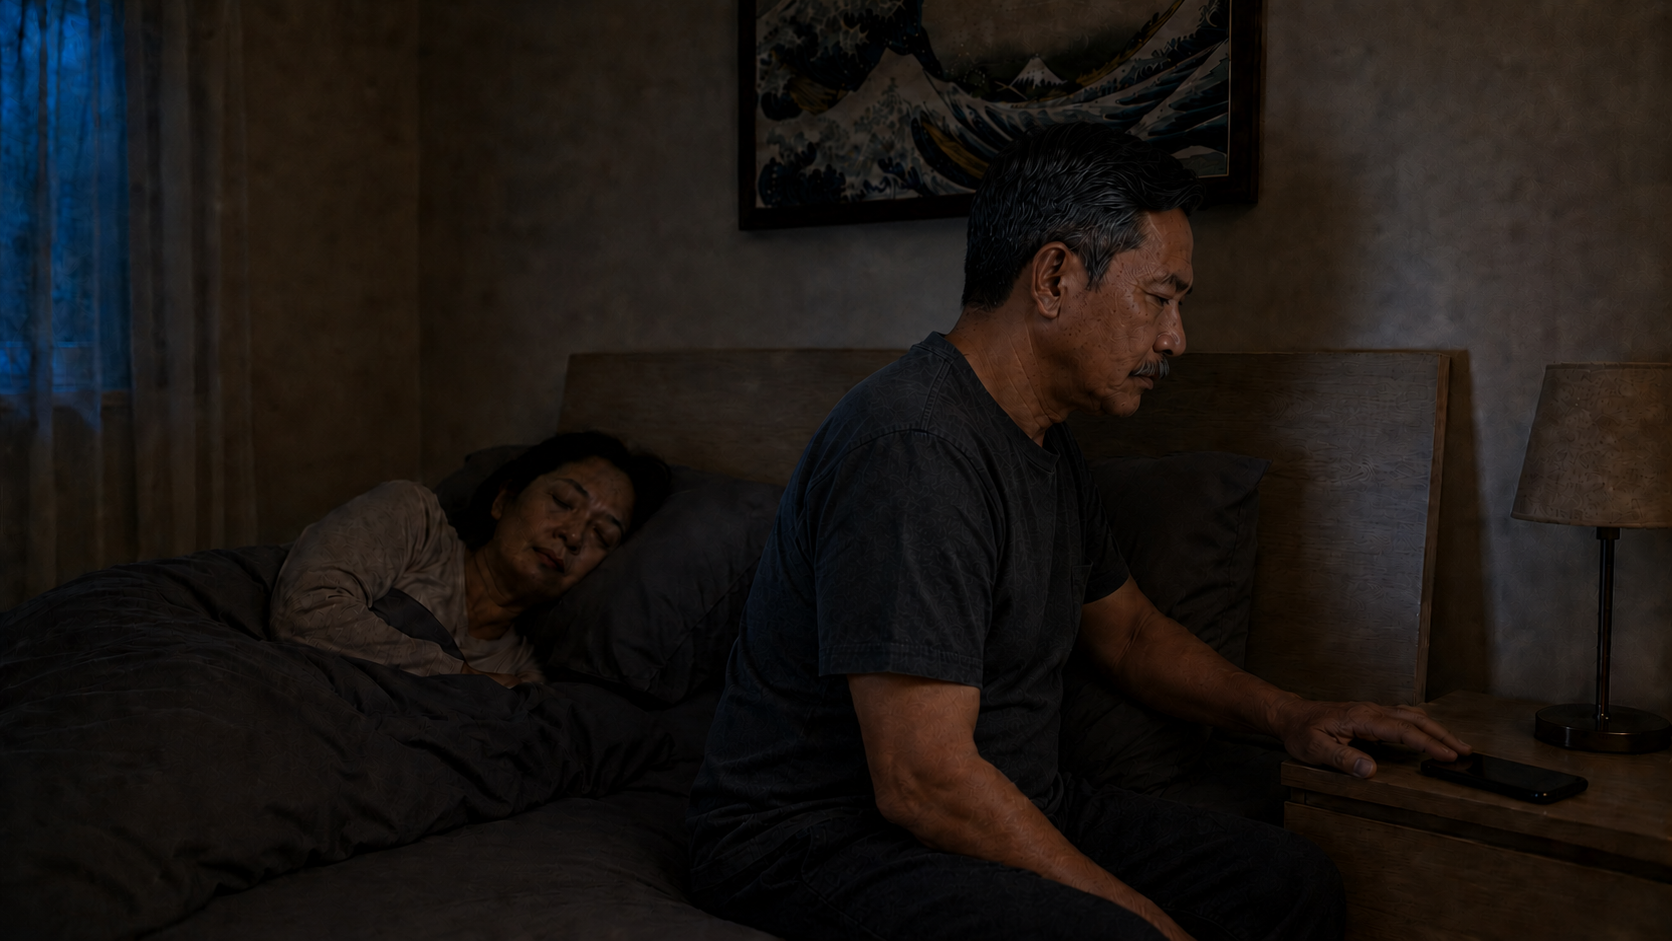
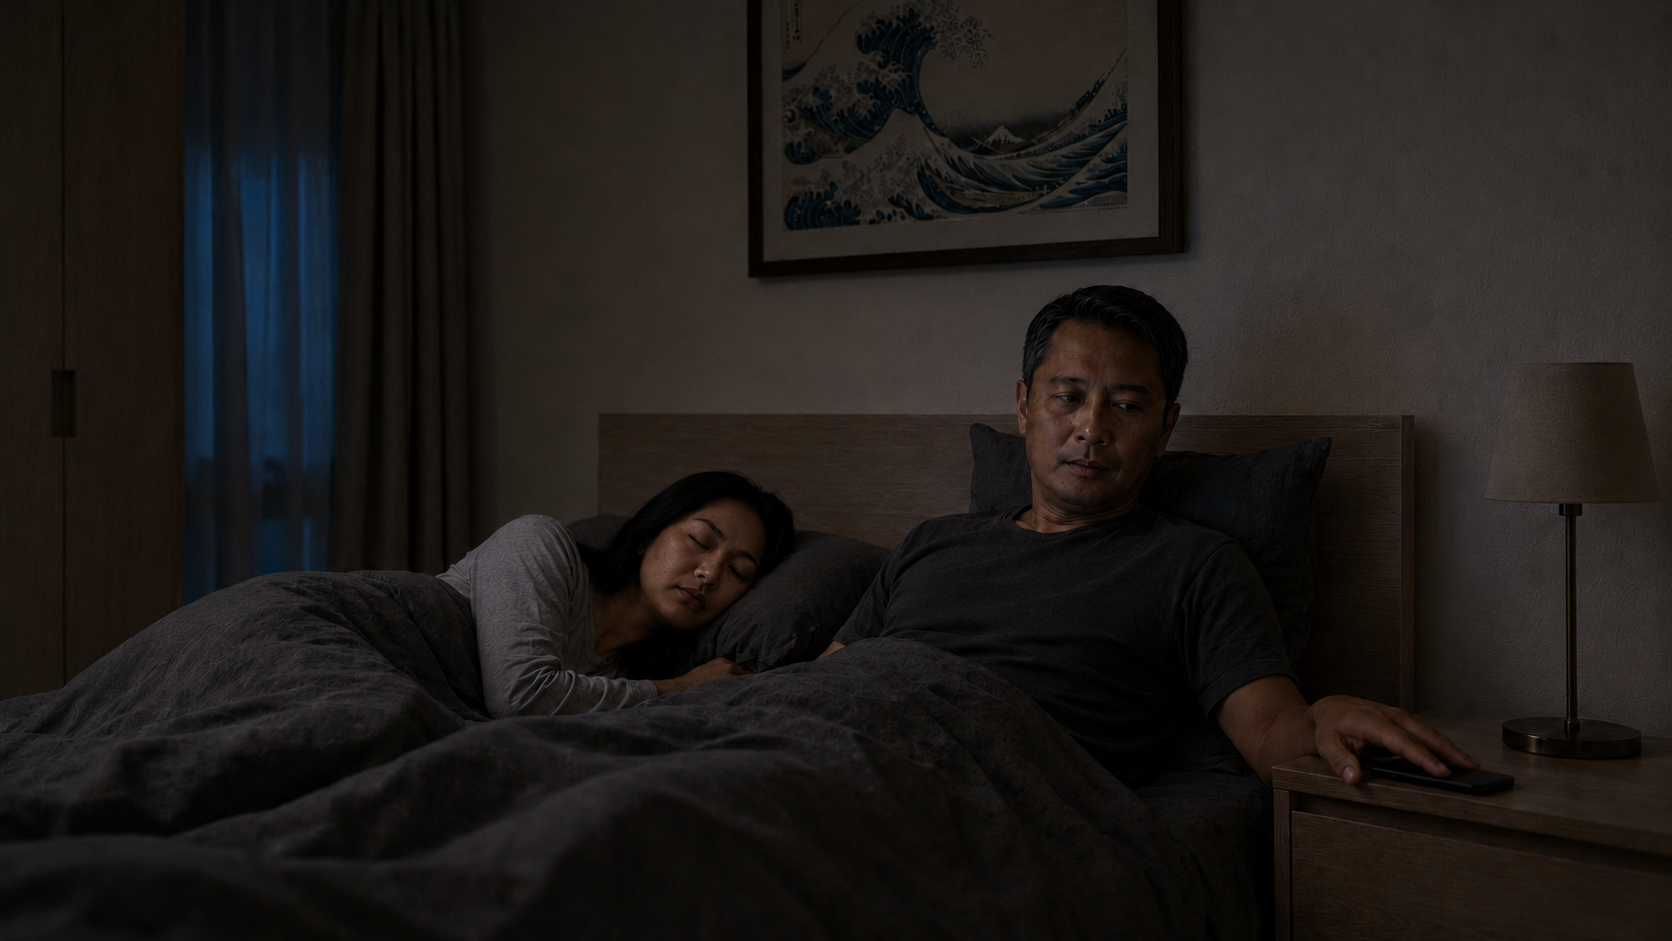
EV2 SC01 SH03 pair DONE (right-diag bed3q medium, 2-subject)
- SH03 START full-master (Mode B, 2-subject): phone portrait fix + phone-as-sole-cool-blue-key (face under-lit), grade Deakins-lock, clean-shaven, no negation
- SH03 END single-pass edit-in-place: place phone face-down + relight + lock BOTH faces via + plates (text 'unchanged' too weak under relight)
- Validated rules (lessons/SEQ1-SC01/context/scope/memory): START is always a full-prompt master (never a patched render); portrait phone facing subject hides screen-glow from camera -> force phone as key in lighting; relight destroys a secondary face in shadow -> lock each face with its plate, single-pass beats place-then-repair
- SC01 now SH01-SH03 complete; SEQ1-SC02.md deletion left unstaged

diff --git a/explainer-video-2/10-gateB-keyframes/SEQ1-SC01.md b/explainer-video-2/10-gateB-keyframes/SEQ1-SC01.md
@@ -135,58 +135,64 @@ Edit: the phone is now grasped by a hand and turned landscape.
 - **Intent (03, restructured 2026-06-26 — 7-shot · lihat [[SEQ1-SC01-RESTRUCTURE-2026-06-26]]):** start = Herman **rebah** nyandar bantal lihat layar (grafik saham; UI di After Effects, layar = slab **cool blue-white** Rule 21). end = Herman **TETAP rebah, menurunkan/menaruh HP face-down ke nakas di sisi kanannya** (delta-KECIL, reach-and-place). Beat **bangkit-duduk DIELIPSIS di cut SH03→SH04** (SH04 menangkapnya sudah duduk, tampak belakang).
 - **SHOT-CONCEPT (FIX — Rule 22 + metode multi-angle CUT):** framing **MEDIUM** (diketatkan dari medium-wide lama; sit-up tak lagi perlu ditampung, hanya reach-and-place). Angle = **kanan-diagonal `bed3q`**. Satu frame DIAM menampung rebah-lihat-HP (START) DAN rebah-taruh-HP-ke-nakas (END) — nakas WAJIB in-frame camera-right. Pasangan di ranjang (Rule 18): Herman camera-right, Ratna camera-left uncovered (R-ratna §0). Layout (Rule 19): jendela camera-left redup biru-pekat (Rule 10), nakas+lampu-OFF camera-right, Great Wave tengah. Herman bangun-tidur (Rule 20).
 - **START attachments (5):** `E01_kamar_master.png` (layout) + `E01_kamar_bed3q.png` (angle) + `H_herman_front_medium.png` + `R_ratna_front_medium.png` + `sc01_sh02_end.png` (grade). Plat **medium** (Rule 23: plat lebih lebar → frame lebih jauh).
-- **START** — mode: **B (one-shot)** · STATUS: ✅ **ACCEPTED (regen) 2026-06-26** → `scene-images/sc01/sc01_sh03_start.png` (supersedes prior `2a91a36c`). Review: framing MEDIUM mendarat (pasangan rebah dominan, lebih ketat dari long lama); **nakas+lampu in-frame camera-right** (syarat END reach-and-place ✓); angle `bed3q` ✓; Rule 21 layar slab biru-dingin under-light wajah, nol UI ✓; identitas Herman+Ratna cocok plat ✓; grade hangat+cool-screen konsisten SH02-END ✓; nol halusinasi. Watch utk END: permukaan nakas di tepi-kanan → taruh-HP harus mendarat di permukaan terlihat, tangan tak keluar frame. Proven prompt:
+- **START** — mode: **B (FULL MASTER, one-shot — START selalu full prompt, bukan edit; konsistensi doc, Erik 2026-06-29b)** · STATUS: ✅ **ACCEPTED 2026-06-29b (re-roll #3, glow-fix)** → `scene-images/sc01/sc01_sh03_start.png`. Review adversarial: wajah under-light cool-blue dari HP ✓, HP portrait ✓, blocking H-right/R-left ✓, Great Wave + nakas in-frame ✓, clean-shaven ✓, nol halusinasi. Jalan re-roll: `50c9e403`(HP-landscape)✗ → `24f3e4aa`(glow-hilang)✗ → `287017d4` ACCEPTED. Perbaikan dari render `50c9e403` (DITOLAK: HP landscape): **HP portrait-explicit** (4 field) + **grade Deakins-lock** (verbatim SH01/SH02) + **clean-shaven** (Herman regen, buang `grey moustache` stale) + **negasi dibuang** (reference_binding/scene/lighting) + **Kodak 2383** + `time_of_day: night`. Master prompt:
 ```json
 {
   "attachment_manifest": {
-    "environment_layout_reference": "E01_kamar_master.png — big-picture room layout, the curtained window and wardrobe on the camera-left, the nightstand and table lamp on the camera-right, the framed Great Wave print above the headboard, identical materials, identical layout",
-    "environment_angle_reference": "E01_kamar_bed3q.png — the camera angle and bed framing for this shot, three-quarter view of the bed, match this vantage",
+    "environment_layout_reference": "E01_kamar_master.png — big-picture room layout, curtained window and wardrobe camera-left, nightstand and table lamp camera-right, framed Great Wave print above headboard, identical materials, identical layout",
+    "environment_angle_reference": "E01_kamar_bed3q.png — camera angle and bed framing for this shot, three-quarter view of the bed, match this vantage",
     "identity_reference": [
-      "H_herman_front_medium.png — Herman, same man, match face shape, grey moustache, salt-and-pepper hair, mature skin, match proportions",
-      "R_ratna_front_medium.png — Ratna, same woman, match face shape, dark hair, soft full brows, match proportions"
+      "H_herman_front_medium.png — Herman, same man, match face, salt-and-pepper hair, clean-shaven, match proportions",
+      "R_ratna_front_medium.png — Ratna, same woman, match face, dark hair, soft full brows, match proportions"
     ],
-    "mood_color_lighting_reference": "sc01_sh02_end.png — previous shot of this scene, warm room grade and tonality reference only"
+    "grade_reference": "sc01_sh02_end.png — colour grade and tonality reference only, warm room grade"
   },
-  "reference_binding": "E01_kamar_master.png sets the big-picture room layout ONLY, the curtained window at camera-left, the nightstand and lamp at camera-right; E01_kamar_bed3q.png sets the camera angle ONLY; sc01_sh02_end.png sets the warm room colour grade and tonality ONLY, do not reproduce its composition, do not reproduce its top-down angle, do not reproduce its objects",
-  "mood": "intimate pre-dawn stillness, the first breath after waking, hushed sacred quiet",
-  "color_grade": "warm Deakins-style grade on the room, midtones slightly warm, gentle filmic contrast, one warm temperature, matched to the attached mood_color_lighting_reference sc01_sh02_end.png",
-  "style": "photorealistic cinematic still, ARRI Alexa Mini LF, 50mm prime spherical lens, Kodak Portra rendering, fine film grain",
-  "scene": "private bedroom in pre-dawn dark, a married couple in their shared bed, a mature man on the right side of the bed propped against a matte slate-grey cotton pillow holding a smartphone aloft at his chest, the smartphone screen a cool blue-white luminous slab with no legible interface, his wife asleep on the left side beside him hair uncovered and loose, a curtained window on the wife's side at camera-left dim and deep pre-dawn blue near-dark, a nightstand with a switched-off unlit table lamp on the man's side at camera-right, the framed Great Wave print centred on the wall above the headboard",
+  "reference_binding": "E01_kamar_master.png = room layout only, window camera-left, nightstand and lamp camera-right; E01_kamar_bed3q.png = camera angle only; sc01_sh02_end.png = warm room colour grade and tonality only",
+  "mood": "tender intimate pre-dawn stillness, hushed private waking, quiet domestic register",
+  "color_grade": "Roger Deakins palette, lifted blacks medium gray, neutral shadows, clean whites, Kodak 2383 emulation, slightly warmer midtones",
+  "style": "photorealistic cinematic frame, ARRI Alexa Mini LF, 50mm prime spherical lens, Kodak 2383 film emulation, naturalistic skin rendering",
+  "scene": "private bedroom pre-dawn dark, married couple in shared bed, mature man on the camera-right side propped against a slate-grey pillow holding a smartphone aloft at his chest, smartphone held upright in portrait orientation, long axis vertical, screen facing the man, screen a bright uniform cool blue-white luminous slab casting cool blue-white light up onto his face, wife asleep on the camera-left side, hair uncovered loose across the pillow, curtained window on the wife's side camera-left dim deep pre-dawn blue, nightstand with table lamp off on the man's side camera-right, framed Great Wave print centred above the headboard",
   "location": "indoor",
-  "time_of_day": "pre-dawn",
-  "atmosphere": "dark hushed pre-dawn dimness, barely-there ambient",
+  "time_of_day": "night",
+  "atmosphere": "hushed pre-dawn near-darkness, perfectly still",
   "scene_depth": {
-    "foreground": "the smartphone aloft at the man's chest, a cool blue-white luminous slab, the man's right hand wrapped around its lower edge",
-    "midground": "the man's face and upper chest, the focal centre, lit cool blue-white from the phone below",
-    "background": "the wife asleep on the pillow at camera-left, dark hair loose uncovered, face relaxed; the dim deep pre-dawn blue curtained window near-dark further to camera-left; the framed Great Wave print centred above the headboard; the switched-off lamp and nightstand at camera-right"
+    "foreground": "smartphone held upright portrait at the man's chest, long axis vertical, cool blue-white luminous slab, his hand around its lower edge",
+    "midground": "the man's face and upper chest, focal centre, lit cool blue-white from the phone below",
+    "background": "the wife asleep on the pillow camera-left, dark hair loose, face relaxed, dim deep pre-dawn blue curtained window further camera-left, framed Great Wave print above the headboard, lamp off and nightstand camera-right"
   },
   "subjects": [
-    { "who": "Herman", "identity_reference": "H_herman_front_medium.png", "wardrobe": "plain dark muted crew-neck cotton sleep t-shirt, plain dark muted pyjama trousers", "grooming": "hair tousled and messy from sleep, dishevelled" },
-    { "who": "Ratna", "identity_reference": "R_ratna_front_medium.png", "wardrobe": "light muted sleep clothing, dark hair uncovered, worn loose and down across the pillow", "state": "asleep, eyes closed, lying turned slightly toward him, not the focus" }
+    { "who": "Herman", "identity_reference": "H_herman_front_medium.png", "wardrobe": "plain dark muted crew-neck cotton sleep t-shirt, plain dark muted pyjama trousers", "grooming": "hair tousled sleep-messy, just-woke" },
+    { "who": "Ratna", "identity_reference": "R_ratna_front_medium.png", "wardrobe": "light muted sleep clothing, dark hair uncovered loose across the pillow", "state": "asleep, eyes closed, turned slightly toward him, not the focus" }
   ],
   "subject_state": "static",
-  "action": "the man watching the phone screen aloft at his chest, his wife lying still asleep beside him",
-  "pose": "the man propped against the pillow, head and shoulders raised, leaning back, right arm raised holding the phone at his chest, the wife supine beside him turned slightly toward him head on the pillow",
-  "gesture": "the man's right hand wrapped around the lower edge of the phone, fingers along the right long side, thumb along the left long side, the screen face angled up toward his face",
-  "expression": "the man just woken, eyes open but heavy and tired, lower lids slightly puffy, gaze down on the screen, face creased and sleep-rumpled, brows relaxed, mouth slightly slack, sleep-worn; the wife's eyes closed, features soft at rest",
-  "framing": "medium two-shot measured on a 1920 by 1080 canvas, fixed camera, the reclining man's head centred around x 1150 with his head-top near y 250 and his torso filling down toward the lower frame, the phone he holds aloft at his chest around x 980 to 1140 and y 430 to 590, the nightstand at camera-right spanning about x 1500 to 1840 with its surface near y 640 to 840 fully in frame within his reach so he can lower the phone onto it without the camera moving, the sleeping wife's head at camera-left around x 320 to 560 and y 360 to 540, framing tight on the reclining couple, no sit-up to contain since the man stays reclining and only lowers the phone",
-  "angle": "three-quarter vantage from the man's camera-right side of the bed matching the camera angle of the attached environment_angle_reference E01_kamar_bed3q.png, camera slightly above eye level, both heads on the pillows held in frame",
-  "camera": "50mm prime spherical, shallow focus on the man's face, the wife softer in the same plane",
-  "lighting": "very-low-key pre-dawn darkness, the only key light a cool blue-white glow rising from the smartphone screen below the man's face, cool blue-white under-light grazing his chin, lower cheeks, nose-tip, brow, and his hands, a dim deep pre-dawn blue light barely passing through the curtained window at camera-left, near-dark window, the table lamp switched off and unlit, no warm sun risen yet, the rest of the room in dim soft warm-neutral ambient, strong warm-cool contrast, shadows soft not crushed",
+  "action": "the man watching the upright phone held portrait at his chest, his wife still asleep beside him",
+  "pose": "man propped against the pillow, head and shoulders raised, leaning back, arm raised holding the phone upright at his chest, wife supine beside him turned slightly toward him, head on the pillow",
+  "gesture": "the man's hand gripping the lower portion of the upright portrait phone, fingers along its vertical right side, thumb along its vertical left side, screen facing his face",
+  "expression": "man just-woke, eyes open heavy tired, lower lids slightly puffy, gaze down on the screen, face creased sleep-rumpled, brows relaxed, mouth slightly slack; wife eyes closed, features soft at rest",
+  "framing": "medium two-shot on a 1920x1080 canvas, fixed camera, reclining man's head centred near x1150 head-top near y250 torso toward lower frame, upright portrait phone held near x1010-1110 y400-620 taller than wide, nightstand camera-right spanning x1500-1840 surface near y640-840 fully in frame within his reach, sleeping wife's head camera-left near x320-560 y360-540, tight on the reclining couple",
+  "angle": "three-quarter vantage from the man's camera-right side of the bed, matching environment_angle_reference E01_kamar_bed3q.png, camera slightly above eye level, both heads on the pillows in frame",
+  "camera": "50mm prime spherical, shallow focus on the man's face, wife softer in the same plane",
+  "lighting": "very low-key pre-dawn near-darkness, the man's face lit ONLY by a strong cool blue-white glow from the upright phone screen held below his face, his chin lower cheeks nose-tip and brow clearly under-lit cool blue, cool-blue catchlights in his eyes, the sleeping wife and the rest of the room falling to deep dim warm-neutral shadow, dim deep pre-dawn blue at the curtained window camera-left, table lamp off dark base, strong warm-cool contrast, shadows deep soft",
   "aspect_ratio": "16:9",
-  "director": "Alfonso Cuarón", "directing_style": "intimate naturalist realism",
+  "director": "Alfonso Cuarón", "directing_style": "intimate naturalistic domestic observation, patient stillness",
   "lighting_director": "Emmanuel Lubezki", "lighting_style": "naturalistic available-light, soft directional",
-  "production_designer": "Eugenio Caballero", "production_design_style": "Roma-style middle-class domestic realism",
+  "production_designer": "Eugenio Caballero", "production_design_style": "lived-in middle-class Jakarta domestic authenticity",
   "interior_designer": "Ilse Crawford", "interior_design_style": "warm human-centred tactile lived-in",
-  "costume_designer": "Deborah Hopper", "costume_style": "character-authentic casual wear",
-  "makeup_artist": "Eryn Krueger Mekash", "makeup_style": "naturalistic lived-in skin, real-person feel"
+  "costume_designer": "Deborah Hopper", "costume_style": "character-authentic casual sleepwear",
+  "makeup_artist": "Eryn Krueger Mekash", "makeup_style": "naturalistic matte lived-in skin, real-person feel"
 }
 ```
 > **Catatan grade (validated):** cool-screen + dim-blue-window + warm-room dari grade-ref `sc01_sh02_end.png` + token Rule 21/10. (Look ini di-reverse-engineer jadi prompt one-shot — Rule 25.) Framing kini **MEDIUM** (tighter) karena END tak lagi memuat sit-up.
-- **END** — method: **EDIT-IN-PLACE delta-KECIL** pada render `sc01_sh03_start.png` (reach-and-place HP ke nakas, Herman **tetap rebah**) · STATUS: 🟨 **PROMPT READY — awaiting generate**. Prior sit-up END (`1e9f76d3`) di-retire — beat bangkit-duduk pindah ke cut SH04 (tampak belakang). Lihat [[SEQ1-SC01-RESTRUCTURE-2026-06-26]].
-  - **Attachment:** TANPA lampiran baru — edit dilakukan di atas render `sc01_sh03_start.png` yang dimuat di edit-view (nakas sudah ada in-frame pada sudut benar; melampirkan plat top-down `E01_kamar_nightstand.png` justru memicu konflik-sudut, jadi tidak dipakai). Set input-fidelity **High**. Edit-instruction (token-per-token, nol pronoun redundan, lock-list penuh — Rules 11/12/13/14):
+- **END** — method: **EDIT-IN-PLACE single-pass** pada `sc01_sh03_start.png` (place-phone + relight + lock 2 wajah via `+`) · STATUS: ✅ **ACCEPTED 2026-06-29b** → `scene-images/sc01/sc01_sh03_end.png`. Delta: Herman taruh HP face-down ke nakas camera-right (tetap rebah), glow biru padam → wajah ke ambient dim. Review adversarial: **kedua wajah UTUH** ✓, framing identik START ✓, HP di nakas ✓, nol halusinasi. Jalan: `8f307f68`(Ratna-rusak relight)✗ → `781ae3f3`(repair two-pass)✓ → `63c79ab9`(single-pass, kedua wajah lock-plat) ACCEPTED.
+  - **Attachments (2 via `+`):** `H_herman_front_medium.png` + `R_ratna_front_medium.png` (face locks). Canvas = `sc01_sh03_start.png`. Fidelity High. NOL preamble.
+  - **⭐ PELAJARAN (validated 2026-06-29b):** relight di edit-in-place **MERUSAK wajah-sekunder di shadow** → lock TIAP wajah dgn **plat via `+`** (token `the sleeping wife unchanged` GAGAL; identity-anchor plat berhasil). END big-relight = jalankan instruksi asli di START bersih + attach SEMUA wajah hadir → **single-pass > place-then-repair**. Edit-instruction final:
 ```
-the smartphone now resting face-down flat on the visible nightstand surface at camera-right near the lamp base, dark screen, screen off, no screen glow, the man's right arm extended toward the nightstand, the man's right hand resting flat beside the face-down phone, the cool blue-white glow gone from the face and chest, the man still reclining propped against the pillow, the man's head turned down toward the nightstand, the face now lit only by dim cool deep pre-dawn ambient, the sleeping wife unchanged, the headboard unchanged, the curtained window unchanged, the table lamp unchanged, the nightstand unchanged, the framed Great Wave artwork unchanged, the bed unchanged, framing unchanged, crop unchanged, camera unchanged, colour grade unchanged, composition unchanged
+Edit: the man has set the phone down on the nightstand, screen now dark, he stays reclining.
+- phone: the same phone, now lying flat face-down on the nightstand surface at camera-right, screen off dark
+- man: his right arm extended to the nightstand at camera-right having set the phone down, hand resting beside it, still reclining back against the pillow, head on the pillow, his face matching attached plate H_herman_front_medium, clear features, clean-shaven
+- woman: the sleeping wife at camera-left, eyes closed asleep, calm relaxed, her face matching attached plate R_ratna_front_medium, clear natural features, dark hair loose across the pillow
+- lighting: the cool blue-white phone glow extinguished, his face and chest now in dim ambient pre-dawn shadow, soft warm-neutral low ambient, room deep dim
+- unchanged: framing unchanged, crop unchanged, camera angle unchanged, Great Wave print unchanged, nightstand and table lamp unchanged camera-right, curtained window unchanged camera-left, color grade unchanged
 ```
 
 ## SEQ1-SC01-SH04 — MS samping ranjang · 35mm

diff --git a/explainer-video-2/03-scene-detail.md b/explainer-video-2/03-scene-detail.md
@@ -39,11 +39,11 @@ Override cool deck-standard `prompt-rules` b.208. String `color_grade` standar v
 **VO (laki-laki, tenang):** *"Satu hari dimulai. Hari yang sama — untuk semua orang."*
 
 **Shot list** *(within-shot: angle+framing LOCKED, hanya subjek berubah START→END; between-shot: CUT shot-reverse-shot di poros ranjang, right-diag `bed3q` ↔ left-diag `bed4q`; lampu ON mulai SH04-END → SH05–SH07 lebih hangat)*
-> **STATUS PRODUKSI (per 2026-06-29 · update penanda ini tiap shot selesai):** SH01 ✅ DONE (start+end). SH02 ✅ DONE (start+end). SH03–SH07 ⬜ BELUM. Penanda lama "(DONE — accepted)" = sisa sesi 2026-06-26 yang file-nya tak ada di disk → dikoreksi & diregenerasi ulang.
+> **STATUS PRODUKSI (per 2026-06-29 · update penanda ini tiap shot selesai):** SH01 ✅ DONE (start+end). SH02 ✅ DONE (start+end). SH03 ✅ DONE (start+end). SH04–SH07 ⬜ BELUM. Penanda lama "(DONE — accepted)" = sisa sesi 2026-06-26 yang file-nya tak ada di disk → dikoreksi & diregenerasi ulang.
 
 - **SEQ1-SC01-SH01** — *overhead · ECU/CU mata · 85mm.* start: mata terpejam di keremangan. end: mata terbuka, fokus ke langit-langit. *(✅ DONE — start+end accepted 2026-06-29 · `sc01_sh01_{start,end}.png` · master-parent + edit-in-place)*
 - **SEQ1-SC01-SH02** — *top-down · CU macro ponsel di nakas.* start: layar menyala, `Waktu Subuh 04.42` + kartu iklan sarung di bawahnya (layar OFF di render, UI di AE — A1). end: tangan meraih & menggenggam HP (pre-lift, bridge ke SH03). *(✅ DONE — start+end accepted 2026-06-29 · `sc01_sh02_{start,end}.png`)*
-- **SEQ1-SC01-SH03** — *right-diag `bed3q` · medium.* start: Herman berbaring memegang ponsel. end: ia meletakkan ponsel kembali di nakas — **tetap berbaring** (bangkit-duduk di-elide di cut). *(⬜ BELUM · grade ← SH02-END)*
+- **SEQ1-SC01-SH03** — *right-diag `bed3q` · medium.* start: Herman berbaring memegang ponsel. end: ia meletakkan ponsel kembali di nakas — **tetap berbaring** (bangkit-duduk di-elide di cut). *(✅ DONE — start+end accepted 2026-06-29b · `sc01_sh03_{start,end}.png`)*
 - **SEQ1-SC01-SH04** — *left-diag `bed4q` · long · H+R REAR-VIEW fullbody.* start: pasangan di ranjang dilihat dari belakang, kamar masih gelap; tangan Herman menjangkau saklar lampu nakas. end: lampu nakas **menyala**, cahaya hangat mengisi kamar. *(⬜ BELUM · grade ← SH03-END · butuh `E01_kamar_bed4q.png`)*
 - **SEQ1-SC01-SH05** — *left-diag `bed4q` · long · H+R rear-view fullbody.* start: Ratna masih berbaring, Herman duduk membelakangi. end: Ratna bangun, **duduk**, menoleh ke Herman. *(⬜ BELUM · grade ← SH04-END)*
 - **SEQ1-SC01-SH06** — *right-diag `bed3q` · long · wajah H+R terlihat.* start: Herman duduk di tepi ranjang, Ratna duduk di belakang. end: Herman **berdiri**, menengok kembali ke Ratna. *(⬜ BELUM · grade ← SH05-END · angle berubah → fresh master, bukan edit-in-place)*

diff --git a/context.md b/context.md
@@ -20,7 +20,8 @@ updated: 2026-06-10
 **Git anomaly:** `SEQ1-SC02.md` + `sc01_sh03_{start,end}.png` ter-`D` (hilang dari disk, masih tracked) — BUKAN dihapus sesi ini; commit di-stage selektif (deletions dibiarkan unstaged, repo tetap simpan). Perlu Erik putuskan restore.
 **SH02-END FINAL (accepted 2026-06-29, overwrite versi from-bottom yg salah):** tangan masuk dari **camera-left** (Herman tidur di kiri) → HP **terputar portrait→landscape** tergenggam; framing IDENTIK START (edit-in-place tahan **delta besar**). 4 re-roll (jempol→genggam-bawah→dari-kiri+landscape). **⭐ Pelajaran kunci (Erik "menulis tanpa berpikir"):** MODEL ADEGAN FISIK dulu — arah-masuk anggota tubuh ikut posisi karakter (Rule 24) + objek-digenggam ubah orientasi + spec utuh-koheren bukan token-swap parsial; edit-in-place tahan framing utk delta-besar (REVISI hipotesis "big-delta→resample"). Disebar ke `prompt-rules-text-image-to-image` (EDIT-IN-PLACE §Status + changelog) + lessons + SEQ1-SC01 + memory.
 **Git anomaly (BELUM diputus):** `SEQ1-SC02.md` + `sc01_sh03_{start,end}.png` ter-`D` (hilang dari disk, masih tracked) — BUKAN dihapus sesi ini; deletions dibiarkan unstaged, repo tetap simpan. SH03 di `SEQ1-SC01.md` masih mark accepted padahal file `D`. Perlu Erik putuskan restore SEQ1-SC02.md.
-**NEXT:** SH03 (right-diag `bed3q` medium, Herman rebah pegang HP → taruh di nakas tetap rebah) — perlu plat env bed3q + master + H/R medium. Commit governance + SH02-final atas perintah Erik; penghapusan SC02/SH03 TIDAK di-commit.
+**SH03 PAIR SELESAI + accepted 2026-06-29b** → `sc01_sh03_{start,end}.png`. START = full-master Mode B 2-subjek (re-roll #3 glow-fix: HP portrait + HP=satu-satunya key cool-blue ke wajah). END = single-pass edit-in-place (place-phone + relight + lock 2 wajah via `+`). **Pelajaran:** START selalu full-master (bukan edit); HP portrait-menghadap-subjek sembunyikan glow → paksa HP=key di `lighting`; relight rusak wajah-sekunder → lock TIAP wajah dgn plat (single-pass > place-then-repair). Disebar ke SEQ1-SC01 + lessons.
+**NEXT:** SH04 (left-diag `bed4q` long, H+R REAR-VIEW fullbody, tangan Herman ke saklar lampu nakas → END lampu NYALA). Dependensi: `E01_kamar_bed4q.png` (ada) + rear plates H/R. Commit SH03 + governance atas perintah Erik; penghapusan SC02/SH03-lama TIDAK di-commit.
 
 ## State AKHIR Sesi (2026-06-26b · SEQ1-SC01 SH03 PAIR SELESAI + Rules 26–27)
 **Fokus:** produksi SH03 (rebah→duduk-samping taruh HP) end-to-end + pengerasan metode keyframe-pair.

diff --git a/lessons.md b/lessons.md
@@ -45,6 +45,9 @@ updated: 2026-06-18
 - **A/B negasi di edit-model ChatGPT baru (N=1, 2026-06-29, SH02-END):** Versi B `negative_spatial_instructions` ("do not mirror / do not add second hand / do not lift the phone") **TIDAK backfire** — render tetap single-hand, layar OFF, nol mirror, framing utuh. Ini menantang asumsi no-negation-backfire (yang tervalidasi di **GPT-Image-2 LAMA**, autoregresif) — model **edit-in-place baru** tampak menangani negasi spasial tanpa menanam konsep. TAPI: (a) N=1, (b) Versi A affirmative-lock dipilih (komposisi lebih cocok START, BUKAN karena B gagal), (c) affirmative tetap **default** (lebih ringkas + tervalidasi panjang). Jangan over-claim "negasi sekarang aman"; re-test di kasus layout-kritis (bed4q mirror) sebelum mengubah aturan. Metode A/B-satu-variabel = cara bersih validasi (lessons:333).
 - **Plat OWN-character via `+` utk tambah anggota-tubuh ber-identitas (validated 2026-06-29, SH02-END):** edit-in-place yang MENAMBAH tangan/anggota tubuh ber-identitas → attach plat-netral karakter sendiri (`H_herman_front_full`) via `+` sbg "skin and hand reference only", ganti token-warna ambigu (`warm brown Southeast-Asian`). Pilih plat NETRAL full-body (wajah kecil) bukan face-CU render (dominasi-wajah → face-bleed). Skin tone cocok, framing tahan (Rule 27 "+" attach tak rusak framing).
 - **⭐ MODEL ADEGAN FISIK, JANGAN TOKEN-SWAP PARSIAL (validated keras 2026-06-29, SH02-END 4 re-roll, koreksi tajam Erik "menulis tanpa berpikir"):** sebelum menulis edit yang menambah/menggeser anggota tubuh atau objek, **modelkan adegan 3D dulu** — bukan menukar satu kata. (a) **Arah-masuk anggota tubuh ikut posisi karakter di frame** (Herman tidur camera-left → lengan masuk dari KIRI, bukan "from bottom" sembarang; Rule 24). (b) **Objek yang digenggam berubah orientasi** mengikuti aksi (HP portrait→landscape saat diraih dari samping) — sebut eksplisit, jangan biarkan spec kontradiktif ("lengan horizontal vs HP vertikal"). (c) Tiap elemen (lengan+grip+orientasi-objek+lock) WAJIB saling koheren, JANGAN parsial (ganti arah tapi grip lama dibiarkan = inkoheren). (d) **edit-in-place MENAHAN framing bahkan utk DELTA BESAR** (putar-orientasi + tambah-lengan) → REVISI hipotesis lama "big-delta hand → resample framing": akar kegagalan lama = spec INKOHEREN/parsial, BUKAN ukuran delta. Kanonik `prompt-rules-text-image-to-image.md` EDIT-IN-PLACE §Status + changelog 2026-06-29. Pola perilaku: jangan emit token sebelum adegan termodelkan; koreksi spasial user = sinyal model-3D-ku absen.
+- **START SELALU full-prompt MASTER, jangan perbaiki START via edit-in-place (Erik 2026-06-29b, koreksi rekomendasi saya):** ketika render START cacat satu hal (mis. orientasi HP), JANGAN tawarkan edit-in-place pada render itu — START = master, WAJIB diregenerasi dari **full prompt** supaya dokumen tetap jadi sumber yang mereproduksi START (konsistensi doc). Edit-in-place HANYA untuk END (delta dalam-shot) atau angle-child (master-parent law). Perbaiki akar di prompt (eksplisitkan orientasi/spec yang luput) + overwrite master di doc, lalu regen. (Saya sempat merekomendasikan edit-in-place rotate HP demi "preserve blocking" — ditolak: itu mengorbankan invariant START=full-prompt.)
+- **Screen-glow sbg KEY light: HP portrait menghadap subjek menyembunyikan glow dari KAMERA (validated 2026-06-29b, SH03 START re-roll #2→#3).** Saat HP portrait + `screen facing the man`, bidang layar membelakangi kamera → model render punggung-HP gelap + isi wajah dgn key hangat tak-termotivasi (motif Rule 21 hilang). Fix tervalidasi: `lighting` WAJIB menamai layar HP sbg **satu-satunya/dominant key eksplisit** (`face lit ONLY by strong cool blue-white glow from the phone screen below his face, chin/lower-cheeks/nose-tip/brow under-lit cool blue, cool-blue catchlights in eyes, rest of room falling to deep shadow`) + `scene` sebut layar `casting cool blue-white light up onto his face`. Bukti: `24f3e4aa` (layar gelap, wajah key-hangat) → `287017d4` (glow biru pulih). Under-light wajah = **bake di render** (susah/jangan dipalsukan di AE; AE hanya UI konten). Selaras Rule 21 (kanonik `prompt-rules-image-generation`).
+- **Relight di edit-in-place MERUSAK wajah-sekunder di shadow → lock TIAP wajah dgn PLAT via `+`, bukan token (validated 2026-06-29b, SH03 END).** Saat edit me-relight gelap region berisi wajah co-present (Ratna asleep), fiturnya hancur walau ada lock-token `the sleeping wife unchanged` (token TERLALU lemah saat region di-resample oleh relight). Fix tervalidasi: attach plat wajah TIAP figur yang terdampak via `+` + identity-anchor eksplisit (`her face matching attached plate R_ratna_front_medium, clear features`). **Pola END big-relight:** jangan place-then-repair (2-pass); jalankan instruksi END asli di **START bersih** + attach SEMUA wajah hadir sekaligus → **single-pass** menjaga semua identitas by-construction (bukti: `8f307f68` Ratna-rusak → `63c79ab9` single-pass kedua-wajah-utuh). Generalisasi: lock-token cukup utk objek mati; **wajah/identitas butuh plat saat region-nya di-relight/di-resample**.
 - **ADDENDUM A1 refined (2026-06-26):** layar device OFF di render AI; AE menghidupkan layar + kartu iklan = motion-graphic terbang (bukan tekstur layar) → tangan/objek boleh menutupi layar; jangan kontorsi staging demi mengosongkan layar.
 - **Closure doc-sync kini HOOK-ENFORCED (2026-06-26):** Stop hook `.claude/hooks/closure-docsync-check.sh` memunculkan reminder doc-sync tiap akhir-turn (debounce 90s) → persist lesson/insight/keputusan/progress ke docs+governance tanpa menunggu user. Pelajaran meta: perilaku otomatis berbasis-event WAJIB lewat hook (harness yang eksekusi), BUKAN memori/instruksi yang probabilistik (update-config). Memasang hook self-config butuh "ya" eksplisit user (auto-mode classifier memblok tanpa itu).
 - **Pembagian peran: SAYA penulis konten, Claude Design HANYA pelayout.** Jangan menyerahkan kerja konten (menarik/mengonfirmasi angka dari brief mentah, menyusun isi chart, menulis copy) ke agen desain — itu domain saya. Pola benar: saya buat SATU dokumen konten FINAL design-ready (tiap slide: headline+body+visual-spec+speaker, semua angka sudah eksplisit di dalamnya, verbatim), lalu handoff/initial-prompt menyuruh Claude Design "design-only, layout verbatim, jangan menulis/menghitung, jangan upload brief mentah". Jangan upload Executive Brief/Proyeksi NU ke agen desain — ekstrak semua yang perlu ke doc konten. Validated: `11-adprovider-deck-content.md`.

diff --git a/scope.md b/scope.md
@@ -13,7 +13,7 @@ updated: 2026-06-18
 - **⭐ HUKUM METODE BARU (validated, Erik):** tiap scene/asset = 1 MASTER (parent, full from-scratch prompt); tiap ANGLE lain = EDIT-IN-PLACE CHILD di SATU context window dgn master (master beranotasi recent-view + goal-view), BUKAN full-prompt + re-upload reference di window baru (resample→inkonsisten; ~6 render bed4q gagal). Dalam-shot: framing+angle kunci, subjek gerak START→END. Disebar ke: `prompt-rules-text-image-to-image.md` + `prompt-rules-image-generation.md` changelog 2026-06-29, `00-README-ENV §2.6` (demoted), `E01-kamar.md §2`, RESTRUCTURE §1b, 4 memory + MEMORY.md + lessons.
 - **RETRACTED:** klaim "opposite-angle = screen-swap" (salah; opposite-angle pertahankan furnitur di dinding nyata, no swap).
 - **TText-token reminder:** token left/right kamera abstrak TIDAK diobey model; pindah angle lewat edit-in-place in-lane.
-- **PROGRES SESI 2026-06-29b:** **SH01 ✅ + SH02 ✅ DONE** (start+end accepted, regen dari awal) → `sc01_sh0{1,2}_{start,end}.png`. SH01 = overhead CU mata (master Mode B + END edit-in-place). SH02 = top-down ponsel (object START + END tangan-dari-kiri/HP-melintang via edit-in-place). Commit `4f2561e` (SH01+SH02 start + SH02-end-versi-awal); SH02-end final + governance menyusul commit berikut.
+- **PROGRES SESI 2026-06-29b:** **SH01 ✅ + SH02 ✅ + SH03 ✅ DONE** (start+end accepted, regen dari awal) → `sc01_sh0{1,2,3}_{start,end}.png`. SH01 = overhead CU mata. SH02 = top-down ponsel (END tangan-dari-kiri/HP-melintang). SH03 = right-diag bed3q medium 2-subjek (START full-master re-roll glow-fix; END single-pass place-phone + lock-2-wajah). Commit `4f2561e` + `912b17e`; SH03 + governance menyusul commit berikut. **NEXT = SH04** (left-diag bed4q long, H+R rear-view, lampu nyala di END).
 - **INSIGHT BARU TERVALIDASI (kanonik `prompt-rules-text-image-to-image`):** (a) edit-in-place = NOL preamble nama-file (canvas=render); (b) **MODEL ADEGAN FISIK, jangan token-swap parsial** — arah-masuk anggota tubuh ikut posisi karakter (Rule 24), objek-digenggam ubah orientasi (portrait→landscape), spec utuh-koheren; (c) **edit-in-place tahan framing utk DELTA BESAR** (revisi hipotesis "big-delta→resample"; akar = spec inkoheren bukan ukuran); (d) +plat OWN-character via `+` utk tambah anggota tubuh (skin/hand ref, ganti token-warna ambigu); (e) A/B negasi N=1: `negative_spatial_instructions` TIDAK backfire di edit-model baru, affirmative tetap default; (f) `03-scene-detail` = sumber status produksi, update BARENG prompt tiap shot.
 - **GIT ANOMALY (perlu keputusan Erik):** `SEQ1-SC02.md` + `sc01_sh03_{start,end}.png` ter-`D` (hilang disk, masih di repo) — bukan dihapus sesi ini; deletions TIDAK di-commit (repo aman). Putuskan restore `SEQ1-SC02.md`.
 - **NEXT:** SH03 (right-diag `bed3q` medium, Herman rebah pegang HP→taruh nakas tetap rebah; 2-subjek H+R, Rule 18). Belum commit (kontrak).